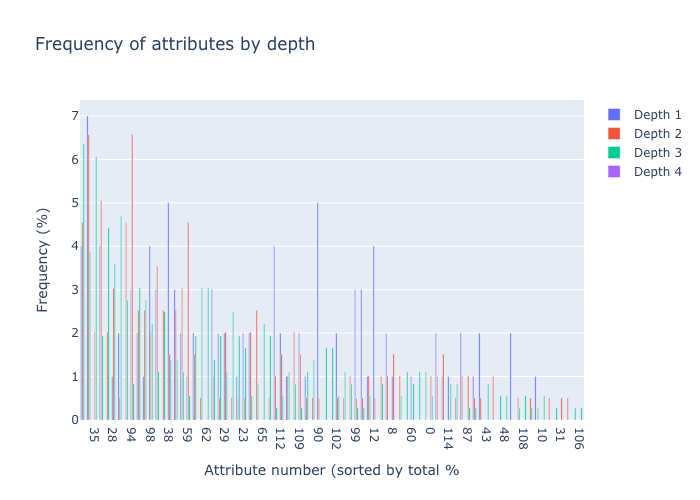
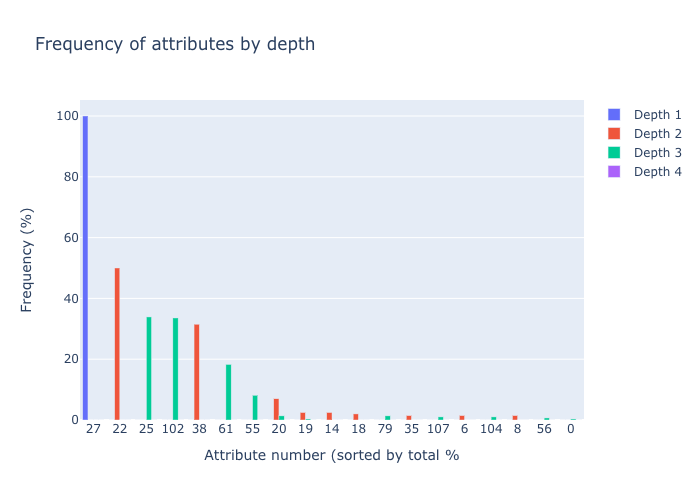
Not yet functional model

Changed region(s): [[0.03, 0.24, 0.84, 0.96], [0.09, 0.21, 0.12, 0.24]]

diff --git a/source/utils/forest_core.py b/source/utils/forest_core.py
@@ -3,6 +3,7 @@ from sklearn.utils.validation import check_X_y
 from sklearn.utils import resample
 import numpy as np
 from dl85 import DL85Classifier
+from gurobipy import Model, GRB, quicksum
 
 
 class Forest(BaseEstimator, ClassifierMixin):
@@ -13,6 +14,7 @@ class Forest(BaseEstimator, ClassifierMixin):
                  attributes="all",
                  n_samples=25,
                  sampling_type="%",
+                 optimised=False,
                  **kwargs):
         self.estimators = []
         self.n_estimators = n_estimators
@@ -24,10 +26,13 @@ class Forest(BaseEstimator, ClassifierMixin):
         self.unanimity = None
         self.method = method
         self.attributes = attributes
+        self.weights = []
+        self.optimised = optimised
 
     def fit(self, X, y):
         check_X_y(X, y)
         self.estimators = []
+        self.weights = []
 
         sample_size = round(self.n_samples / 100 * len(X)) if self.sampling_type == "%" else self.n_samples
         column_size = round(75 / 100 * len(X[0]))
@@ -71,14 +76,91 @@ class Forest(BaseEstimator, ClassifierMixin):
                 for i in range(len(X)):
                     X[i][attr] = 1
 
+        if self.optimised and self.tree_class == DL85Classifier:
+            pred = np.array([t.predict(X) for t in self.estimators]) * 2 - 1
+
+            cont = True
+            tree_count = self.n_estimators
+            sample_count = len(y)
+            c = np.array(y) * 2 - 1
+
+            while cont:
+                m1 = Model("tree_weight_optimiser")
+                tree_weights = [m1.addVar(vtype=GRB.CONTINUOUS, name="tree_weights " + str(t)) for t in
+                                range(tree_count)]
+                rho = m1.addVar(vtype=GRB.CONTINUOUS, name="rho", lb=float("-inf"))
+
+                m1.setObjective(rho, GRB.MAXIMIZE)
+
+                m1.addConstr(quicksum(tree_weights) == 1, name="weights = 1")
+                for i in range(sample_count):
+                    m1.addConstr(quicksum([c[i] * tree_weights[t] * pred[t, i] for t in range(tree_count)]) >= rho,
+                                 name="Constraint on sample " + str(i))
+
+                m1.setParam("DualReductions", 0)
+                m1.optimize()
+                print(tree_weights)
+                print(rho)
+                print(min([sum([w.X for w in tree_weights] * pred[:, i] * c[i]) for i in range(sample_count)]))
+
+                m2 = Model("sample_weight_optimiser")
+                sample_weights = [m2.addVar(vtype=GRB.CONTINUOUS, name="sample_weights" + str(i), ub=2/sample_count)
+                                  for i in range(sample_count)]
+                gamma = m2.addVar(vtype=GRB.CONTINUOUS, name="gamma", lb=float("-inf"))
+
+                m2.setObjective(gamma, GRB.MINIMIZE)
+
+                m2.addConstr(quicksum(sample_weights) == 1, name="weights = 1")
+                for t in range(tree_count):
+                    m2.addConstr(
+                        quicksum([c[i] * sample_weights[i] * pred[t, i] for i in range(sample_count)]) <= gamma,
+                        name="Constraint on tree " + str(t))
+
+                m2.optimize()
+                print(sample_weights)
+                print(max([sum(c * [w.X for w in sample_weights] * pred[t, :]) for t in range(tree_count)]))
+
+                def error(tids):
+                    classes = [0, 1]
+                    supports = [0, 0]
+                    for i in tids:
+                        supports[(c[i] + 1) // 2] += sample_weights[i].X
+                    maxindex = np.argmax(supports)
+                    return sum(supports) - supports[maxindex], classes[maxindex]
+
+                tree = self.tree_class(error_function=error, **self.kwargs)
+                tree.fit(X, y)
+
+                if tree.error_ < gamma.X:
+                    self.estimators.append(tree)
+                    pred.append(tree.predict(X) * 2 - 1)
+                    tree_count += 1
+                else:
+                    weights = [w.X for w in tree_weights]
+                    estimators = list(self.estimators)
+                    self.estimators = []
+                    for w, e in zip(weights, estimators):
+                        if w != 0:
+                            self.weights.append(w)
+                            self.estimators.append(e)
+                    cont = False
+
         self.is_fitted = True
         return self
 
     def predict(self, X):
         lst = np.array([t.predict(X) for t in self.estimators])
-        pred = [np.argmax(np.bincount(lst[:, i])) for i in range(len(lst[0]))]
-        self.unanimity = [np.count_nonzero(lst[:, i] == pred[i]) for i in range(len(lst[0]))]
-        return pred
+        if self.optimised:
+            lst = lst * 2 - 1
+            wlst = [self.weights[t] * lst[t, :] for t in range(len(self.estimators))]
+            pred = np.sum(wlst, axis=0)
+            pred = [0 if p < 0 else 1 for p in pred]
+            self.unanimity = [np.count_nonzero(lst[:, i] == pred[i]) for i in range(len(lst[0]))]
+            return pred
+        else:
+            pred = [np.argmax(np.bincount(lst[:, i])) for i in range(len(lst[0]))]
+            self.unanimity = [np.count_nonzero(lst[:, i] == pred[i]) for i in range(len(lst[0]))]
+            return pred
 
     def check_is_fitted(self):
         return self.is_fitted

diff --git a/source/utils/learning_manager.py b/source/utils/learning_manager.py
@@ -1,5 +1,6 @@
 from source.utils import file_manager
-from source.learning import decision_tree, random_forest, cp_tree, dl8, gradient_boosting, dl8_forest
+from source.learning import decision_tree, random_forest, cp_tree, dl8, gradient_boosting, dl8_forest, \
+    optimised_dl8_forest
 import math
 
 algo_names = {
@@ -8,6 +9,7 @@ algo_names = {
     "CP-tree": cp_tree.CPTree,
     "DL8": dl8.DL8,
     "DL8-forest": dl8_forest.DL8Forest,
+    "OptDL8-forest": optimised_dl8_forest.OptDL8Forest,
     "G-boosting": gradient_boosting.GradientBoosting
 }
 
@@ -16,7 +18,8 @@ kwargs = {
     "R-forest": {'n_estimators': 100},
     "CP-tree": {'max_depth': 4},
     "DL8": {'max_depth': 4},
-    "DL8-forest": {'n_estimators': 10, 'max_depth': 3, 'attributes': "random_progressive"},
+    "DL8-forest": {'n_estimators': 10, 'max_depth': 3, 'attributes': "all"},
+    "OptDL8-forest": {'n_estimators': 3, 'max_depth': 3, 'method': "all", 'attributes': "progressive"},
     "G-boosting": {'n_estimators': 100}
 }
 

diff --git a/source/learning/optimised_dl8_forest.py b/source/learning/optimised_dl8_forest.py
@@ -1,0 +1,32 @@
+from source.utils import file_manager
+from source.utils.forest_core import Forest
+from source.learning import learning
+
+NAME = "OptDL8Forest"
+FILE = "optdl8forest"
+
+
+class OptDL8Forest(learning.Learning):
+    def __init__(self, data_set: file_manager.DataSet, percent=0.5, b=False, **kwargs):
+        super().__init__(data_set, percent=percent, b=b)
+        self.t = Forest(optimised=True, **kwargs)
+        self.FILE = FILE
+        self.NAME = NAME
+        self.depth_map = {}
+        self.unanimity = []
+        self.n_estimators = []
+
+    def build(self):
+        super().build()
+        self.depth_map[self.n_builds - 1] = self.t.get_depth_map()
+
+    def run(self):
+        super().run()
+        self.unanimity.append(self.t.get_unanimity())
+        self.n_estimators.append(self.t.get_n_estimators())
+
+    def write_to_file(self):
+        super().write_to_file()
+
+    def read_from_file(self):
+        super().read_from_file()
